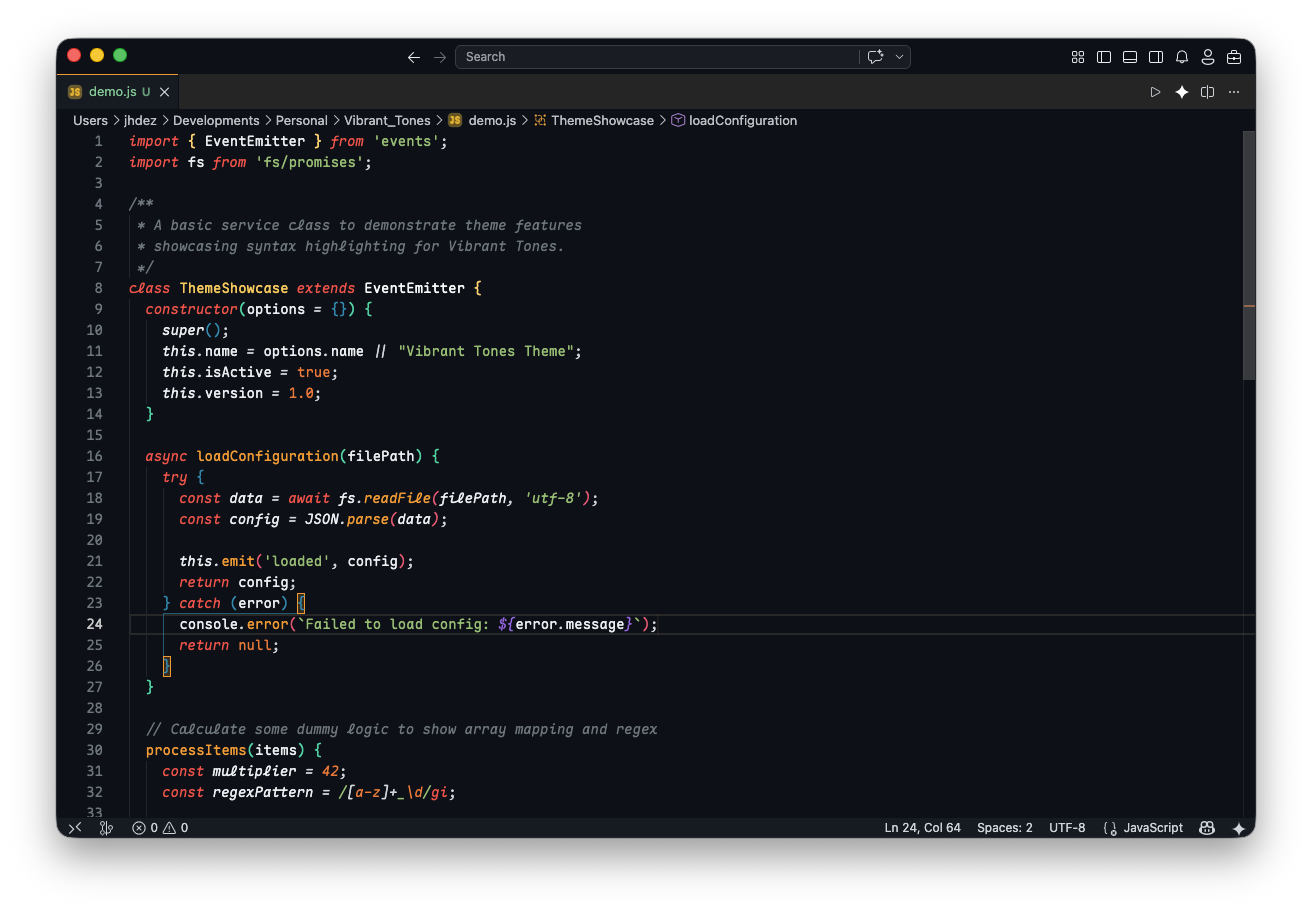
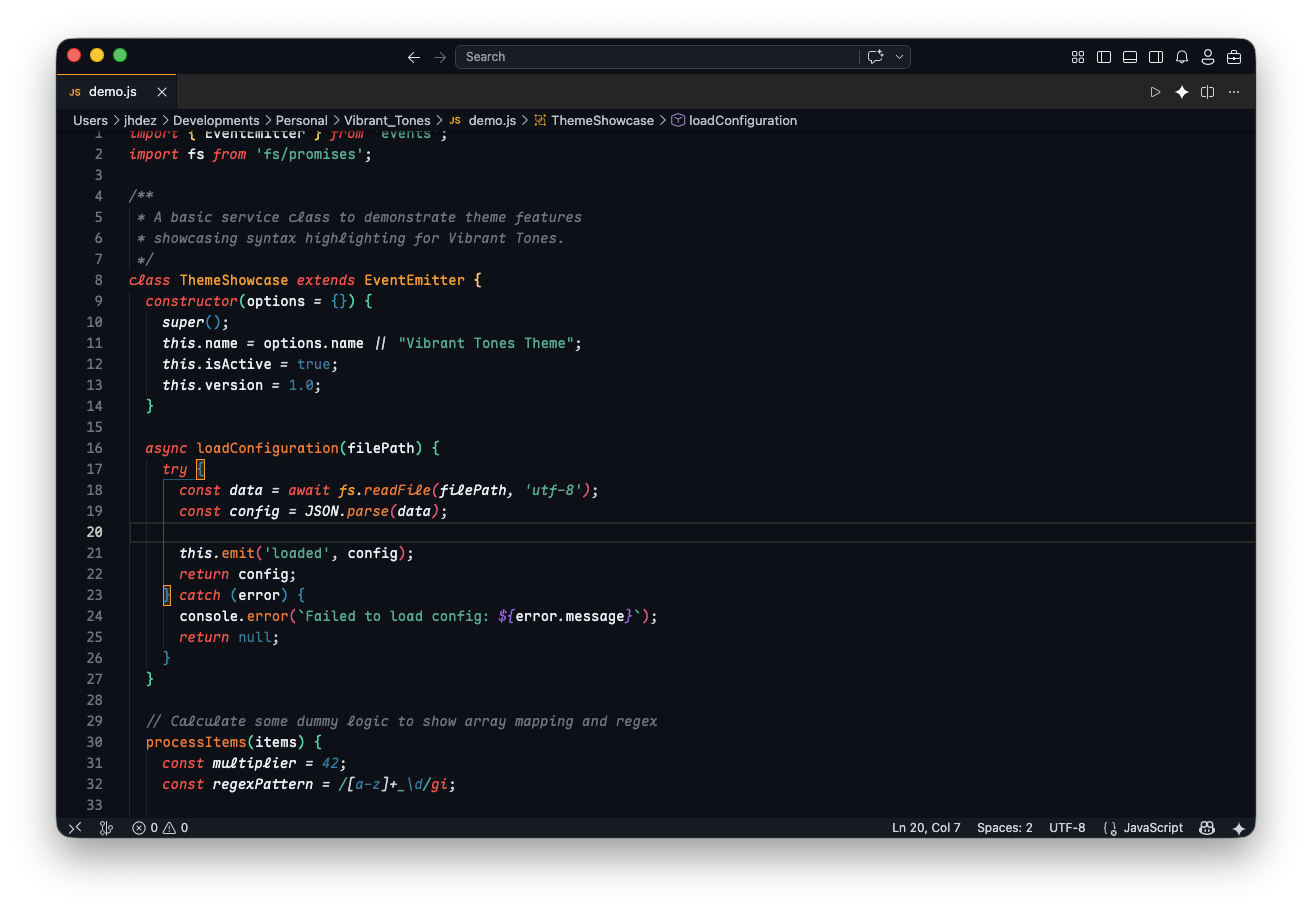
feat: add Vibrant Spectrum theme and update existing dark theme color palette

diff --git a/README.md b/README.md
@@ -1,10 +1,24 @@
 # Vibrant Tones Theme
 
+[![Version](https://img.shields.io/visual-studio-marketplace/v/jhezt.vibrant-tones?style=for-the-badge&label=VS%20Code&logo=visual-studio-code)](https://marketplace.visualstudio.com/items?itemName=jhezt.vibrant-tones)
+[![Installs](https://img.shields.io/visual-studio-marketplace/i/jhezt.vibrant-tones?style=for-the-badge)](https://marketplace.visualstudio.com/items?itemName=jhezt.vibrant-tones)
+[![Rating](https://img.shields.io/visual-studio-marketplace/stars/jhezt.vibrant-tones?style=for-the-badge)](https://marketplace.visualstudio.com/items?itemName=jhezt.vibrant-tones)
+
 A beautiful, vibrant light and dark theme for Visual Studio Code, inspired by the Inti color palette.
 
-![Vibrant Dark Preview](img/screenshot_dark.png)
-![Vibrant Light Preview](img/screenshot_light.png)
+## Previews
 
+### Vibrant Dark
+A vivid high-contrast dark theme with punchy accents.
+![Vibrant Dark Preview](img/screenshot_dark.png)
+
+### Vibrant Spectrum
+An ergonomically balanced dark background based on Monokai Pro (Filter Spectrum).
+![Vibrant Spectrum Preview](img/screenshot_spectrum.png)
+
+### Vibrant Light
+A gorgeous, deeply saturated theme for brightly lit environments.
+![Vibrant Light Preview](img/screenshot_light.png)
 
 ## Installation
 
@@ -12,6 +26,6 @@ A beautiful, vibrant light and dark theme for Visual Studio Code, inspired by th
 2. Search for `Vibrant Tones`
 3. Click **Install**.
 4. Click **Reload** to reload the editor.
-5. Go to `Preferences → Color Theme` and choose **Vibrant Dark** or **Vibrant Light**.
+5. Go to `Preferences → Color Theme` and choose **Vibrant Dark**, **Vibrant Spectrum**, or **Vibrant Light**.
 
 Enjoy!

diff --git a/CHANGELOG.md b/CHANGELOG.md
@@ -9,3 +9,4 @@ All notable changes to the "Vibrant Tones" extension will be documented in this 
 ## [Unreleased]
 - Added `keywords` and `galleryBanner` to `package.json` for better marketplace presence.
 - Enabled `semanticHighlighting` in both Light and Dark themes for more precise syntax coloring powered by language servers.
+- **New Theme Variant:** Added `Vibrant Spectrum` to provide an ergonomic dark background based on Monokai Pro (Filter Spectrum) while using balanced vibrant accents.
